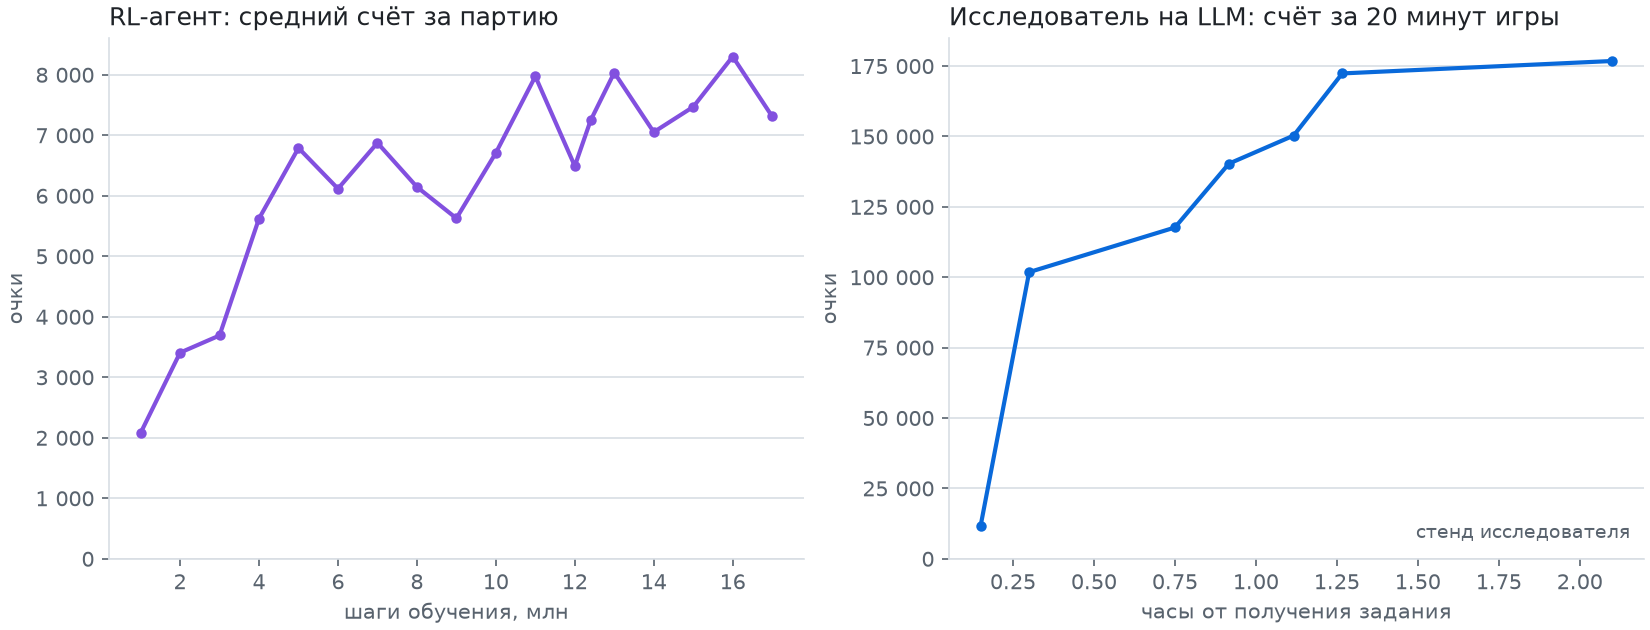
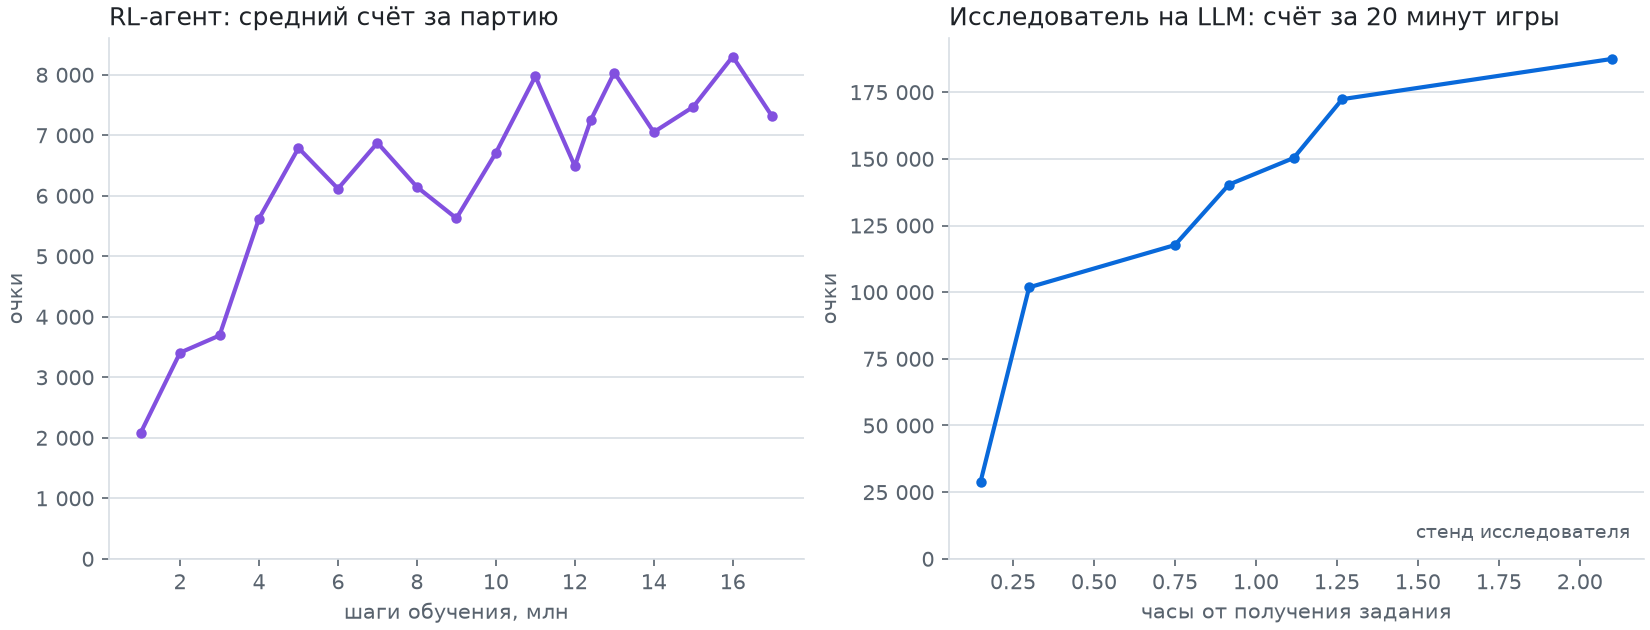
docs: правки по финальной рецензии — оговорки в LinkedIn, проверка малых чисел, данные графика

Changed region(s): [[0.4945, 0.0905, 0.9891, 0.4825], [0.5255, 0.5429, 1.0, 0.8143], [0.5873, 0.8143, 0.6182, 0.8444]]

diff --git a/docs/article/check.py b/docs/article/check.py
@@ -28,12 +28,25 @@ def word_count(text: str) -> int:
     return sum(1 for w in _clean(text).split() if re.search(r"\w", w))
 
 
+# Малое число всё же проверяем, если оно — сумма, часть диапазона, счёт «N из M» или стоит перед множителем.
+_SMALL_BEFORE = re.compile(r"(\$|(?:\bиз|\bof)\s)$", re.I)
+_SMALL_AFTER = re.compile(r"^(?:[–-]\d+)?\s*(?:тыс|млн|thousand|million|%)|^[–-]\d|^\s+(?:из|of|out of)\s+\d", re.I)
+
+
+def _numbers(text: str):
+    """(число в нормальной форме, нужно ли проверять малое число) для каждого числа текста."""
+    text = _clean(text)
+    for m in _NUMBER.finditer(text):
+        n = re.sub(r"[   ,]", "", m.group(1))
+        n = f"{n}.{m.group(2)}" if m.group(2) else n
+        weighty = bool(_SMALL_BEFORE.search(text[max(0, m.start() - 4):m.start()])
+                       or _SMALL_AFTER.search(text[m.end():m.end() + 16])
+                       or re.search(r"\d[–-]$", text[:m.start()]))
+        yield n, weighty
+
+
 def numbers_in(text: str) -> set[str]:
-    found = set()
-    for whole, frac in _NUMBER.findall(_clean(text)):
-        n = re.sub(r"[   ,]", "", whole)
-        found.add(f"{n}.{frac}" if frac else n)
-    return found
+    return {n for n, _ in _numbers(text)}
 
 
 def load_facts(path: Path) -> set[str]:
@@ -46,7 +59,8 @@ def load_facts(path: Path) -> set[str]:
 
 
 def unverified(text: str, facts: set[str]) -> set[str]:
-    return {n for n in numbers_in(text) if n not in facts and not (n.isdigit() and int(n) <= SMALL)}
+    return {n for n, weighty in _numbers(text)
+            if n not in facts and (weighty or not (n.isdigit() and int(n) <= SMALL))}
 
 
 def main() -> int:

diff --git a/tests/test_article_check.py b/tests/test_article_check.py
@@ -32,3 +32,20 @@ def test_load_facts(tmp_path):
     p = tmp_path / "facts.md"
     p.write_text("| Число | Что | Источник |\n|---|---|---|\n| 343 977 | среднее | log |\n", encoding="utf-8")
     assert load_facts(p) == {"343977"}
+
+
+def test_small_numbers_with_multiplier_checked():
+    assert unverified("плато около 7–8 тыс. очков", set()) == {"7", "8"}
+    assert unverified("about $5 and 2 million steps", set()) == {"5", "2"}
+
+
+def test_small_numbers_in_scores_checked():
+    assert unverified("в 10 партиях из 10", set()) == {"10"}
+    assert unverified("won 9 of 10, 10 out of 10", {"10"}) == {"9"}
+
+
+def test_article_texts_match_facts():
+    root = Path(__file__).resolve().parents[1] / "docs" / "article"
+    facts = load_facts(root / "facts.md")
+    for name in ("habr.md", "linkedin.md", "linkedin-post.md"):
+        assert unverified((root / name).read_text(encoding="utf-8"), facts) == set(), name

diff --git a/docs/article/linkedin.md b/docs/article/linkedin.md
@@ -3,25 +3,24 @@
 ![The final screen of DOS Arkanoid: the VAUS ship escapes after the DOH boss is destroyed](img/final.png)
 
 This is the last screen of Arkanoid for DOS, released in 1988. The ship escapes after the final boss, DOH, is
-destroyed in round 33. The game has no API, and nobody reads its memory. There is only a 320×200 picture, a
-keyboard and a mouse.
+destroyed in round 33. No API, no memory access — only a 320×200 picture, a keyboard and a mouse.
 
 A program written by AI reached this screen in 10 games out of 10. The AI figured out how to play by looking at
 the screen — inside a sandbox we built, on three tasks I gave it — and an independent referee, also ours,
 checked the result.
 
-Six months ago I tried the same thing and failed. What changed was not only the models. What changed was my idea
-of what an AI system is.
+Six months ago I tried the same thing and failed. What changed was not only the models, but my idea of what an
+AI system is.
 
 ## What I used to think AI was
 
 To me, "build an AI that plays a game" meant reinforcement learning (RL): a neural network looks at the screen,
 presses buttons, gets points as a reward and learns over millions of attempts.
 
-In this project I walked that path again, carefully. The agent trained for about a day on a laptop CPU — 17
+In this project I tried again. The agent trained for about a day on a laptop CPU — 17
 million steps. Its average score plateaued at 7–8 thousand points. It never honestly cleared the first round; it
-only reached round two through a bonus capsule that opens an exit in the wall. Every reward tweak helped a little,
-and the ceiling didn't move.
+only reached round two through a bonus capsule that opens an exit in the wall. Reward tweaks helped a little; the
+ceiling held.
 
 All the RL code was written by an LLM — Claude, acting as my programming assistant. It also found bugs and
 suggested fixes, but always inside the method I had chosen. In my head, "the AI" was the trained network and the
@@ -63,9 +62,9 @@ losses nearly vanished. The log records failed ideas too.
 In the RL track, the same bounce mechanism appeared only after I hinted at it. Here nobody hinted. We can't
 control what the model knew about Arkanoid from training; its contribution was to run the experiment and measure.
 
-Fixes followed the same loop. In round 33 the boss shoots, nothing earlier does, and the player lost all lives in
-about 36 seconds. I set a new task — "reach round 33 and beat DOH" — without saying how. The researcher studied the
-frames, found the projectiles and taught the player to dodge them. Later the referee caught the ball looping
+In round 33 the boss shoots, nothing earlier does, and the player lost all lives in
+about 36 seconds. I set a new task — "reach round 33 and beat DOH" — without saying how. The researcher found the
+projectiles in the frames and taught the player to dodge. Later the referee caught the ball looping
 forever in round 25; the researcher replayed that round 24 times from one moment, found 4 trapped cases and added
 an escape move. Every fix was a separate task that I started. This is not a "self-healing" system; it is a system
 you can improve quickly by stating the problem in words.
@@ -73,17 +72,14 @@ you can improve quickly by stating the problem in words.
 ## How it was verified
 
 The referee boots the game, waits a random number of frames, hands control to the player and reads score, round
-and the ending screen from the screen. Final run: 10 games, a
-90-minute limit, 10 wins over DOH, mean score 343,977. The previous version won 9 of 10 — that run exposed the
-round-25 loop.
+and the ending from the screen. Final run: 10 games, a
+90-minute limit, 10 wins over DOH, mean score 343,977. The previous version won 9 of 10 (7 of 8 distinct games — two
+pairs repeated frame for frame); that run caught the round-25 loop a second time.
 
 At API prices, the researcher's work would have cost about $31; the whole project, including RL, the emulator and
 the referee, about $136. I used a subscription, so this is an estimate, not a bill.
 
 ## What this means if you run technology
-
-**An AI system is not just a trained model.** Ours had an LLM researcher that runs experiments and writes the
-solution, a fast executor that is plain code you can read and test, and an independent check.
 
 **Re-test old "no"s.** Six months ago I concluded this needed long RL training. The same LLM that wrote my RL code
 did it in a few hours of work once it had a different role.
@@ -102,13 +98,15 @@ faster than real time. Build that sandbox first.
 
 ## Limitations
 
-The game is deterministic. We built the body and the referee. RL trained only briefly. A human started every
-fix. Bans on web search and on reading files outside its folder were rules in the task, not technical barriers;
-the researcher's session log shows it didn't break them.
+The game is deterministic, and the referee's random start delay is at most 60 frames, so 10 games are 10
+different openings, not 10 different worlds. We built the body and the referee. RL trained only briefly. A human
+started every fix. Bans on web search and on reading files outside its folder were rules in the task, not
+technical barriers — and our main repo already described the bounce mechanism by then. The researcher's session
+log shows it never read files outside its folder or went online.
 
 Six months ago I thought AI was a trained model and an LLM was a helpful assistant writing code for it. Now I call
 an AI system the combination: an LLM that understands the task and builds the solution, a fast verifiable
-executor, and an independent check. Within this project the model was the same, and the outcome was different.
-The role made the difference.
+executor, and an independent check. Models also got stronger in six months, so I can't compare then and now
+fairly. But within this project the model was the same and the outcome was different — the role mattered a lot.
 
-Code, the research log and a walkthrough of the researcher's reasoning: <link>.
+Code and the research log: <link>.

diff --git a/docs/article/facts.md b/docs/article/facts.md
@@ -61,8 +61,8 @@
 
 | Число | Что означает | Источник |
 |---|---|---|
-| 11:58 | коммит c01c024 «Тело исследователя и задание» | SG |
-| 12:16 | коммит efccf8c «Игрок v1» | SG |
+| 11.58 | время коммита c01c024 (часы.минуты) «Тело исследователя и задание» | SG |
+| 12.16 | время коммита efccf8c (часы.минуты) «Игрок v1» | SG |
 | 18 | минут от задания до v1 | SG (11:58 → 12:16) |
 | 101 820 | счёт v1 на стенде исследователя | SG efccf8c; SL «Итог» |
 | 117 670 | v2, прицеливание по зонам, раунд 13 | SG b36f8e9 |
@@ -72,8 +72,10 @@
 | 172 390 | темп разрушения, раунд 15 | SG 74568ba |
 | 176 805 | среднее по 4 партиям, 14:04 | SG 619525b; SL «Итог» |
 | 187 490 | лучшая партия, раунд 19 | SL «Итог» |
-| 2,5 | часа работы исследователя до первой версии игрока | TL «Исследователь — официальная оценка» |
-| 174 156 | средний счёт у судьи, 10 игр по 20 минут | TL «Исследователь — официальная оценка» |
+| 2,5 | часа до `player.py`, который судья оценил в 174 156 (первые версии — через 9–18 минут) | TL «Исследователь — официальная оценка» |
+| 174 156 | средний счёт у судьи, 10 игр по 20 минут |
+| 20 минут | игрового времени на партию в первой оценке судьёй | TL «Исследователь — официальная оценка» |
+| 28 950 | v0 за 20 минут, раунд 3 (первая точка графика) | SL §5 | TL «Исследователь — официальная оценка» |
 | 174 | то же, «174 тыс.» | TL |
 | 14–19 | (14, 19) раунды у судьи | TL |
 | 15 | раунд v2.5 (172 390) | SG 74568ba |
@@ -125,7 +127,7 @@
 - Спека: «первая версия за 18 минут». Первой была v0 (12:07, 11 650 за 2 мин); 101 820 — вторая версия (v1,
   12:16). 18 минут — разница времени коммитов, а не замер. В статье — «меньше чем через полчаса… вторая версия».
 - Изоляция исследователя: проверено по журналу его сессии
-  (`~/.claude/projects/C--Users-askar-src-neuronoid-strategist/3bec93f7….jsonl`) — нет вызовов WebSearch/WebFetch,
+  (журнал сессии Claude Code исследователя) — нет вызовов WebSearch/WebFetch,
   субагентов и чтения файлов вне `neuronoid-strategist`.
 
 - Спека: «первый час — 101 820». По коммитам — 18 минут (c01c024 11:58 → efccf8c 12:16); в TL — «~1 час».

diff --git a/docs/article/linkedin-post.md b/docs/article/linkedin-post.md
@@ -1,20 +1,23 @@
 Six months ago I tried to build an AI that plays Arkanoid — the 1988 DOS game, from screen pixels only. I failed.
 
-This time it beat the game: all 33 rounds and the final boss, in 10 out of 10 games checked by an independent
-referee.
+This time it reached round 33 and beat the final boss in 10 out of 10 games, checked by a separate referee
+program we wrote.
 
 What changed? Not just the models.
 
 First I went the classic way: reinforcement learning. About a day of training on a laptop CPU, 17 million steps —
-and the agent never honestly cleared round one. An LLM wrote all that RL code for me. To me it was an assistant.
+and the agent never honestly cleared round one. (Not a fair contest: RL trained only briefly.) An LLM wrote all
+that RL code for me. To me it was an assistant.
 
 Then I gave the same model, Claude Opus 5.5, a different role. Not "write training code", but: here is a body —
 screen, keys, mouse, save states. Figure out how to play.
 
 It ran experiments like a scientist: measured how the ball bounces off the paddle, found six zones, wrote a player
-in plain readable code, and fixed it when I set new tasks. Cost at API prices: about $31.
+in plain readable code, and fixed it each time I set a new task. The researcher's work would have cost about $31
+at API prices — an estimate, since I used a subscription.
 
 The lesson for anyone running technology: an AI system is not only a trained model. The LLM can be the part that
-understands the problem and builds the solution. And conclusions like "AI can't do this" go stale in six months.
+understands the problem and builds the solution. And conclusions like "AI can't do this" are worth re-checking
+every six months.
 
 Honest limits, the research loop and questions to ask vendors — in the article: <link>

diff --git a/docs/article/prepublish.md b/docs/article/prepublish.md
@@ -16,12 +16,11 @@
 
 ## Личные данные
 
-- Почта автора `askar@zhakenov.pro` — в метаданных всех 90 коммитов (78 + 12). При публикации истории она
+- Почта автора — в метаданных всех 90 коммитов (78 + 12). При публикации истории она
   будет видна. Если это нежелательно — открыть снимок без истории или переписать автора (`git filter-repo
   --mailmap`); переписывать историю — решение автора.
-- Локальный путь `C:\Users\askar\AppData\Local\Temp\claude\...` — одна строка в
-  `docs/superpowers/plans/2026-10-27-article.md` (ссылка на временный скрипт подсчёта). Предложение: заменить
-  на «скретчпад сессии» перед публикацией.
+- Локальный путь к временному скрипту в плане статьи заменён на «скретчпад сессии»; путь к журналу сессии
+  исследователя в `facts.md` заменён описанием. Повторная проверка после всех задач: других личных путей нет.
 - Ключей API, токенов, паролей, телефонов не найдено.
 
 ## Прочее

diff --git a/docs/superpowers/plans/2026-10-27-article.md b/docs/superpowers/plans/2026-10-27-article.md
@@ -118,7 +118,7 @@ def test_load_facts(tmp_path):
   - `cost_usd(records: list[dict], prices: dict = PRICES) -> float`;
   - CLI: `python docs/article/cost.py <jsonl>...` печатает токены по видам и сумму.
 - Логику подсчёта брать из `tok.py` в скретчпаде сессии
-  (`C:\Users\askar\AppData\Local\Temp\claude\C--Users-askar-src\7ad77845-c3cf-4dd1-897f-d0d5d41bd830\scratchpad\tok.py`).
+  (скретчпад сессии).
   Поля 1h/5m записи: `usage.cache_creation.ephemeral_1h_input_tokens` / `ephemeral_5m_input_tokens`.
 
 - [ ] **Step 1: Тесты**
